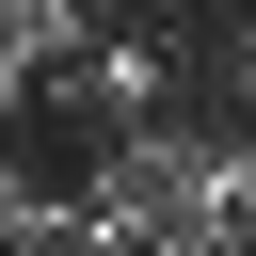
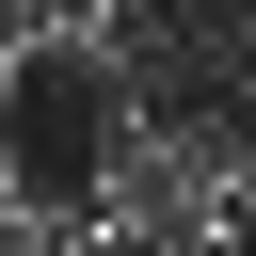
Inpainting added

diff --git a/zero_shot.py b/zero_shot.py
@@ -62,6 +62,8 @@ register_attention_control(unet, controller, new_attn)
 hr = cv2.resize(h, (args.res_size, args.res_size))
 cv2.imwrite(args.out_path + "hr.png", hr)
 ht = torch.tensor(cv2.resize(h, (args.res_size, args.res_size)), dtype=torch.float, device=device) / 255 
+x_0 = cv2.imread(args.out_path + "x0.png", cv2.IMREAD_GRAYSCALE)
+x_0 = torch.tensor(x_0, dtype=torch.float, device=device) / 255
 
 prompts = ["A cat on a garden with flowers, realistic 4k"]
 timesteps = 50
@@ -113,15 +115,16 @@ lossF = torch.nn.BCELoss()#BCELoss()#MSELoss()
 lossM = torch.nn.MSELoss(reduction="mean")
 m = torch.nn.Sigmoid()
 
-theta = torch.linspace(0.3, 1, timesteps//2)
-
+theta = torch.linspace(0.7, 1, timesteps//2)
+mask = torch.zeros_like(x0)
 for t in tqdm(scheduler.timesteps):    
     if  0 <= step < timesteps // 2 and args.guide:
-
+        print(t)
         #optimizer = torch.optim.SGD(filter(lambda p: p.requires_grad, pipe.unet.parameters()), args.lr)
         controller.reset()
+        x_k = scheduler.scale_model_input(x_0, step)
         
-        latents2 = diffusion_step(unet, scheduler, controller, latents, context, t, guidance_scale, train = True)
+        latents2 = diffusion_step(unet, scheduler, controller, latents, context, t, guidance_scale, xt = x_k, m = mask, train = True)
         
         attention_maps16, _ = get_cross_attention(prompts, controller, res=16, from_where=["up", "down"])
         attention_maps32, _ = get_cross_attention(prompts, controller, res=32, from_where=["up", "down"])
@@ -130,6 +133,7 @@ for t in tqdm(scheduler.timesteps):
         attention_maps = attention_maps16.to(torch.float) 
         
         s_hat = attention_maps[:,:,mask_index]  #torch.mean(attention_maps,dim=-1)
+        mask = cv2.resize(s_hat.detach().cpu() + hr, x0.shape)
         
         attn_replace = torch.clone(attention_maps)
         attn_replace[:, :, mask_index] = ht
@@ -176,6 +180,8 @@ for t in tqdm(scheduler.timesteps):
         eta = 0.5
         latents = latents2 - eta * lambd[step] * grad_x
         latents = latents * theta[step] + latents_original * (1 - theta[step])
+        print(latents.shape)
+        #latents = (theta[step]) * latents + (1 - theta[step]) * torch.randn_like(latents)
         latents = latents.detach()
         latents.requires_grad_(True)
     else:

diff --git a/main.py b/main.py
@@ -62,7 +62,7 @@ ht = torch.tensor(cv2.resize(h, (args.res_size, args.res_size)), dtype=torch.flo
 
 
 prompts = ["A cat on a sofa"]
-timesteps = 70
+timesteps = 50
 scheduler.set_timesteps(timesteps)
 scheduler.timesteps = scheduler.timesteps.to(device)
 batch_size = 1
@@ -130,7 +130,7 @@ grad_em(pipe.unet, 0, None)'''
 #grad_params = list(filter(lambda p: p.requires_grad, pipe.unet.parameters()))
 #context.append(em)
 #optimizer = torch.optim.SGD(em.parameters(), args.lr)
-theta = torch.linspace(0.3, 1, timesteps//2)
+theta = torch.linspace(0.7, 1, timesteps//2)
 lambd = torch.linspace(1, 0, timesteps // 2)
 
 for t in tqdm(scheduler.timesteps):
@@ -142,6 +142,7 @@ for t in tqdm(scheduler.timesteps):
         #for i in bar:
         controller.reset()
         #optimizer.zero_grad()
+        latents = t * latents + (1 - t) * torch.randn_like(latents)
         latents2 = diffusion_step(unet, scheduler, controller, latents, context, t, guidance_scale, train = True)
         
         attention_maps, out_save16 = get_cross_attention(prompts, controller, res=args.res_size, from_where=["up", "down"])
@@ -178,7 +179,7 @@ for t in tqdm(scheduler.timesteps):
         #optimizer.step()
         grad_emb = context[1].grad / torch.linalg.norm(context[1].grad)
         
-        context[1] = context[1] - 3 * lambd[step] * grad_emb
+        context[1] = context[1] - 5 * lambd[step] * grad_emb
         context[1] = context[1] * theta[step] + original_context * (1 - theta[step])
         
         context[0] = context[0].detach()
@@ -192,6 +193,7 @@ for t in tqdm(scheduler.timesteps):
         
     else:
         with torch.no_grad():
+            context[1] = original_context
             if not args.guide:
                 torch.save(latents, f'{path_original}{step}.pt')
             latents = diffusion_step(unet, scheduler, controller, latents, context, t, guidance_scale, train=False)

diff --git a/ptp_utils.py b/ptp_utils.py
@@ -438,7 +438,7 @@ def show_cross_attention(tokenizer, prompts, attention_store: AttentionStore, re
     view_images(np.stack(images, axis=0),file_path=out_path)
 
 
-def diffusion_step(unet, scheduler, controller, latents, context, t, guidance_scale, train = False,low_resource=False):
+def diffusion_step(unet, scheduler, controller, latents, context, t, guidance_scale, xt = None, m=None, train = False,low_resource=False):
     
     noise_pred_uncond = unet(latents, t, encoder_hidden_states=context[0])["sample"]
     
@@ -447,6 +447,9 @@ def diffusion_step(unet, scheduler, controller, latents, context, t, guidance_sc
     #with torch.no_grad():
     noise_pred = noise_pred_uncond + guidance_scale * (noise_prediction_text - noise_pred_uncond)
     
+    if xt:
+        noise_pred = xt[m] + noise_pred[1 - m]
+
     latents = scheduler.step(noise_pred, t, latents)["prev_sample"]
     
     if controller != None:
